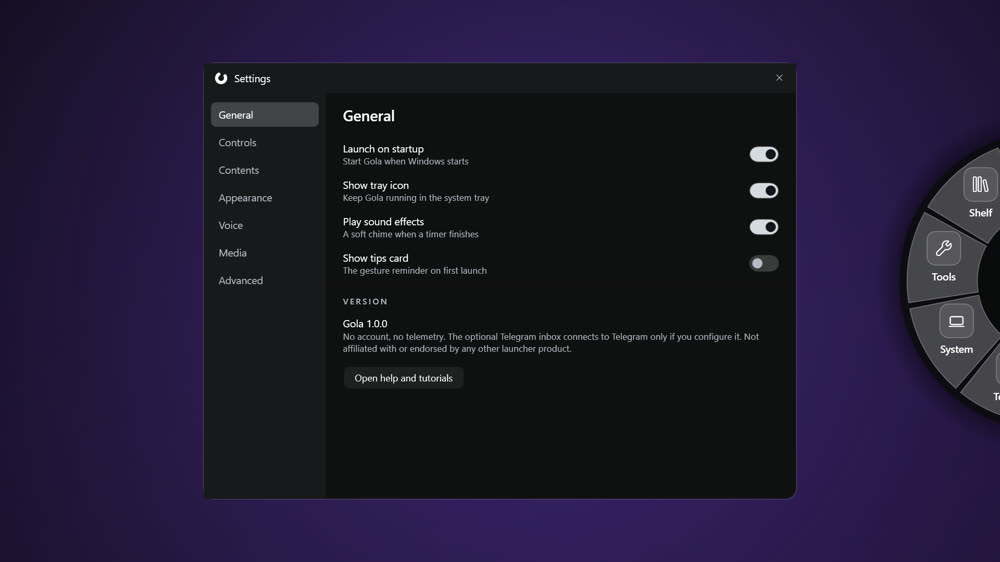
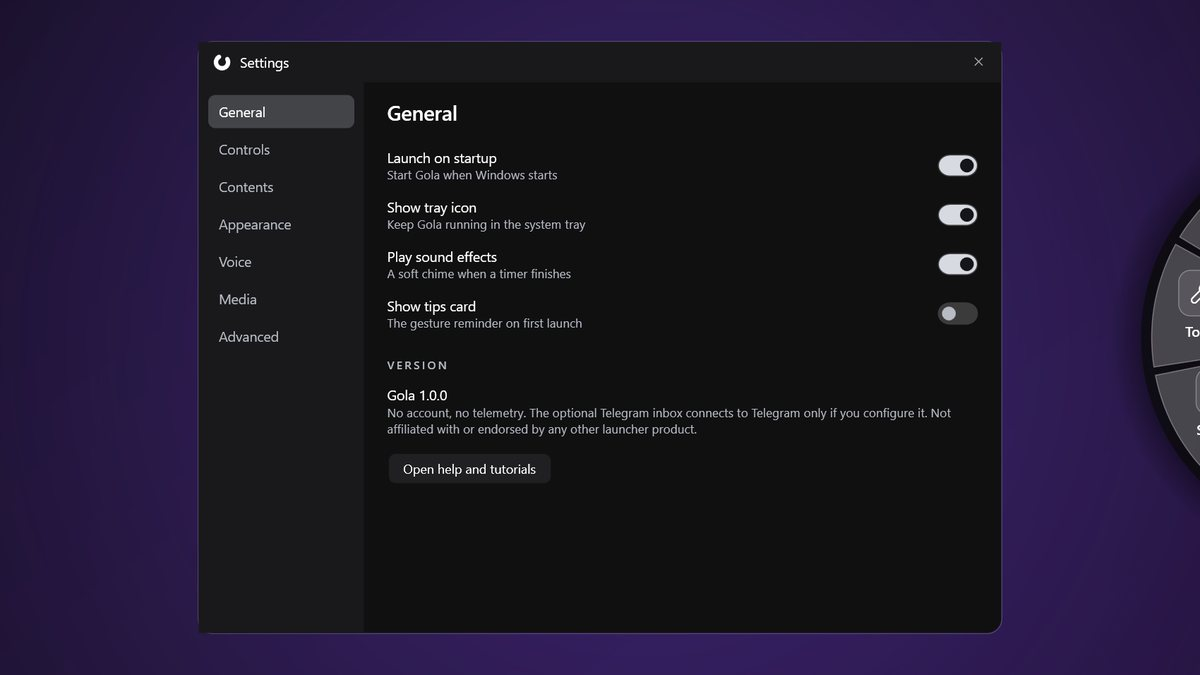
Bring the page up to what shipped: Recno, Gola's media core, Moonrain 1.1
SitesLog ships as Recno — App Review approved v1.0.0 today. The band now
says what the app grew into: crew clock-in on the geofence, timesheets with
overtime and pay periods, labour cost, payroll export. New screenshots from
the store submission (home, the day timeline with crew hours).

Gola's centre is a media hub now, and the wheel carries a Shelf and a side
dock; three fresh 1920x1080 store frames replace the older ones, including an
app slice fanned out into its own windows.

Moonrain 1.1 has been live since Aug 11 — the band links the listing.
Cortex gains the command centre, evening brief and autonomy dial.

Changed region(s): [[0.155, 0.0605, 0.837, 0.9377], [0.868, 0.242, 1.0, 0.7562]]

diff --git a/index.html b/index.html
@@ -4,7 +4,7 @@
 <meta charset="utf-8">
 <meta name="viewport" content="width=device-width, initial-scale=1">
 <title>Gurwinder Singh — shipped work</title>
-<meta name="description" content="Gurwinder Singh, Vancouver BC. Gola, Cortex, SitesLog, Moonrain, Tracket — shipped Windows and iOS apps and tooling for coding agents.">
+<meta name="description" content="Gurwinder Singh, Vancouver BC. Gola, Cortex, Recno, Moonrain, Tracket — shipped Windows and iOS apps and tooling for coding agents.">
 <meta property="og:title" content="Gurwinder Singh — shipped work">
 <meta property="og:description" content="Built in Vancouver. Running on other people's machines.">
 <meta property="og:image" content="https://gsl0001.github.io/img/hero-gola.jpg">
@@ -200,7 +200,8 @@ footer a:hover{color:var(--lit);border-color:var(--lit)}
       <h1>Built in Vancouver. Running on other people's machines.</h1>
       <p class="lede">Six shipped things: a radial launcher for Windows, a memory layer for
         coding agents, two iOS apps, a continuity tool, and a set of options systems that
-        fail closed. <b>Everything here is finished and in use</b> — no concepts, no mockups.</p>
+        fail closed. <b>Everything here is finished and in use</b> — no concepts, no mockups.
+        Both phone apps are through App Review.</p>
 
       <dl class="standing">
         <div><dt>Shipped</dt><dd>Six products</dd></div>
@@ -219,37 +220,40 @@ footer a:hover{color:var(--lit);border-color:var(--lit)}
   <section class="work wrap" id="gola" data-product="Gola">
     <p class="role">Windows app</p>
     <h2>Gola</h2>
-    <p class="say">Hold the hotkey and a wheel opens where the cursor already is. Flick toward
-      what you want, release — apps, folders, the windows you already have open. A second
-      ring carries the small tools you'd otherwise go hunting for: <b>magnifier, timer,
-      colour picker, calculator, quick note</b>.</p>
+    <p class="say">Hold the chord and a wheel opens where the cursor already is. Flick toward
+      what you want, release — apps, folders, and the windows you already have open, fanned out
+      as live previews. Whatever is playing lives in the centre: <b>album art, transport and a
+      volume ring you scroll</b>. A second ring carries the small tools you'd otherwise go
+      hunting for — magnifier, timer, colour picker, calculator, dictation — next to a Shelf
+      that takes files from your phone and a dock for the windows you park.</p>
     <dl class="facts">
       <div><dt>Platform</dt><dd>Windows</dd></div>
-      <div><dt>Built with</dt><dd>C#</dd></div>
+      <div><dt>Built with</dt><dd>C# · WPF · .NET 8</dd></div>
+      <div><dt>Version</dt><dd>1.0.0 · no account, no telemetry</dd></div>
       <div><dt>Setup</dt><dd><a href="https://gsl0001.github.io/gola/">gsl0001.github.io/gola</a></dd></div>
     </dl>
     <div class="shots wide">
       <figure>
         <div class="plate">
-          <img src="img/hero-gola.jpg" width="1800" height="1012" loading="lazy" decoding="async"
-            alt="Gola's radial wheel open over a desktop, with Claude, ChatGPT, Edge, Files and Terminal on its ring">
+          <img src="img/hero-gola.jpg" width="1600" height="900" loading="lazy" decoding="async"
+            alt="Gola's wheel held open: a track playing in the centre hub with album art, transport and a volume ring, apps around it">
         </div>
-        <figcaption>The wheel, held open mid-keystroke</figcaption>
+        <figcaption>The wheel, held open — the centre is whatever is playing</figcaption>
       </figure>
       <div class="stack">
         <figure>
           <div class="plate">
-            <img src="img/gola-tools.jpg" width="1200" height="676" loading="lazy" decoding="async"
-              alt="Gola's outer Tools ring fanned out with magnifier, calculator, timer, quick note, screenshot and dictate">
+            <img src="img/gola-fan.jpg" width="1400" height="788" loading="lazy" decoding="async"
+              alt="Gola's Files slice fanned out into its two open Explorer windows plus a New window action">
           </div>
-          <figcaption>Tools ring, fanned out</figcaption>
+          <figcaption>An app slice fans out into its own windows</figcaption>
         </figure>
         <figure>
           <div class="plate">
-            <img src="img/gola-settings.jpg" width="1000" height="562" loading="lazy" decoding="async"
-              alt="Gola's settings window">
+            <img src="img/gola-tools.jpg" width="1200" height="675" loading="lazy" decoding="async"
+              alt="Gola's outer Tools ring fanned out: magnifier, colour, calculator, timer, quick note, screenshot, dictate, caffeine, focus dim">
           </div>
-          <figcaption>Settings</figcaption>
+          <figcaption>Tools ring, fanned out</figcaption>
         </figure>
       </div>
     </div>
@@ -260,11 +264,13 @@ footer a:hover{color:var(--lit);border-color:var(--lit)}
     <h2>Cortex</h2>
     <p class="say">Memory for coding agents. Claude Code and Codex hand off to each other, and
       to their own future sessions, through <b>one Node process and one SQLite file</b>.
-      Nothing leaves the machine. It ships with MCP tools, hooks, a CLI, and an optional
-      autopilot that works a task queue on its own.</p>
+      Nothing leaves the machine. On top of the memory sit a command centre for blocked work and
+      unresolved questions, an evening brief of what actually happened, a per-project autonomy
+      dial, and an autopilot that works the task queue on its own.</p>
     <dl class="facts">
       <div><dt>Runs on</dt><dd>Node · SQLite</dd></div>
       <div><dt>Speaks</dt><dd>MCP, hooks, CLI</dd></div>
+      <div><dt>Tests</dt><dd>399 passing · MIT</dd></div>
       <div><dt>Source</dt><dd><a href="https://github.com/gsl0001/Cortex">github.com/gsl0001/Cortex</a></dd></div>
     </dl>
     <div class="shots">
@@ -278,31 +284,34 @@ footer a:hover{color:var(--lit);border-color:var(--lit)}
     </div>
   </section>
 
-  <section class="work wrap" id="siteslog" data-product="SitesLog">
+  <section class="work wrap" id="recno" data-product="Recno">
     <p class="role">iOS app</p>
-    <h2>SitesLog</h2>
-    <p class="say">Jobsite photo reports for contractors. It sorts work photos by the site they
-      were taken at, then turns a day of them into a <b>PDF, HTML or CSV report</b> the client
-      can actually read — without the weight of full construction software.</p>
+    <h2>Recno</h2>
+    <p class="say">Jobsite records for contractors, shipped after a spell as SitesLog. It sorts work photos by
+      the site they were taken at, including the ones already sitting in your camera roll, and
+      turns a day of them into a <b>PDF, HTML or CSV report</b> the client can actually read.
+      The crew clocks in and out on the geofence, and those hours come back as a timesheet with
+      overtime, pay periods, labour cost and a payroll export.</p>
     <dl class="facts">
       <div><dt>Platform</dt><dd>iOS</dd></div>
-      <div><dt>Photos</dt><dd>Sorted on device</dd></div>
+      <div><dt>Everything</dt><dd>On device · SQLite</dd></div>
+      <div><dt>Status</dt><dd>v1.0.0 through App Review</dd></div>
       <div><dt>Support</dt><dd><a href="https://gsl0001.github.io/siteslog/">gsl0001.github.io/siteslog</a></dd></div>
     </dl>
     <div class="shots phones">
       <figure>
         <div class="plate">
-          <img src="img/siteslog-home.jpg" width="560" height="1214" loading="lazy" decoding="async"
-            alt="SitesLog home screen showing the current jobsite address, counters and quick actions">
+          <img src="img/recno-home.jpg" width="560" height="1214" loading="lazy" decoding="async"
+            alt="Recno home screen showing the jobsite you are standing on, photo and job counters, and quick actions">
         </div>
         <figcaption>Home, standing on site</figcaption>
       </figure>
       <figure>
         <div class="plate">
-          <img src="img/siteslog-report.jpg" width="560" height="1214" loading="lazy" decoding="async"
-            alt="SitesLog report builder screen">
+          <img src="img/recno-day.jpg" width="560" height="1214" loading="lazy" decoding="async"
+            alt="Recno daily log: a timeline of the day's photos by site, with crew clock-ins and hours on the clock">
         </div>
-        <figcaption>The report builder</figcaption>
+        <figcaption>A day, by site and by hour</figcaption>
       </figure>
     </div>
   </section>
@@ -311,11 +320,13 @@ footer a:hover{color:var(--lit);border-color:var(--lit)}
     <p class="role">iOS app</p>
     <h2>Moonrain</h2>
     <p class="say">A sleep aid built around the part everyone actually uses: the timer. Pick a
-      sound, set a fade-out, let the screen dim itself on the way down.
-      <b>Mixes, favourites and Siri shortcuts</b> for the rest.</p>
+      sound, set a fade-out, let the screen dim itself on the way down. <b>Twenty-four sounds,
+      four-layer mixes, favourites and Siri shortcuts</b> for the rest — offline, no account,
+      no network.</p>
     <dl class="facts">
       <div><dt>Platform</dt><dd>iOS</dd></div>
       <div><dt>Built with</dt><dd>Swift · SwiftUI</dd></div>
+      <div><dt>On the store</dt><dd><a href="https://apps.apple.com/us/app/moonrain-sleep-sounds/id6789770084">Moonrain 1.1</a></dd></div>
       <div><dt>Support</dt><dd><a href="https://gsl0001.github.io/sleepaid-site/">gsl0001.github.io/sleepaid-site</a></dd></div>
     </dl>
     <div class="shots phones">
